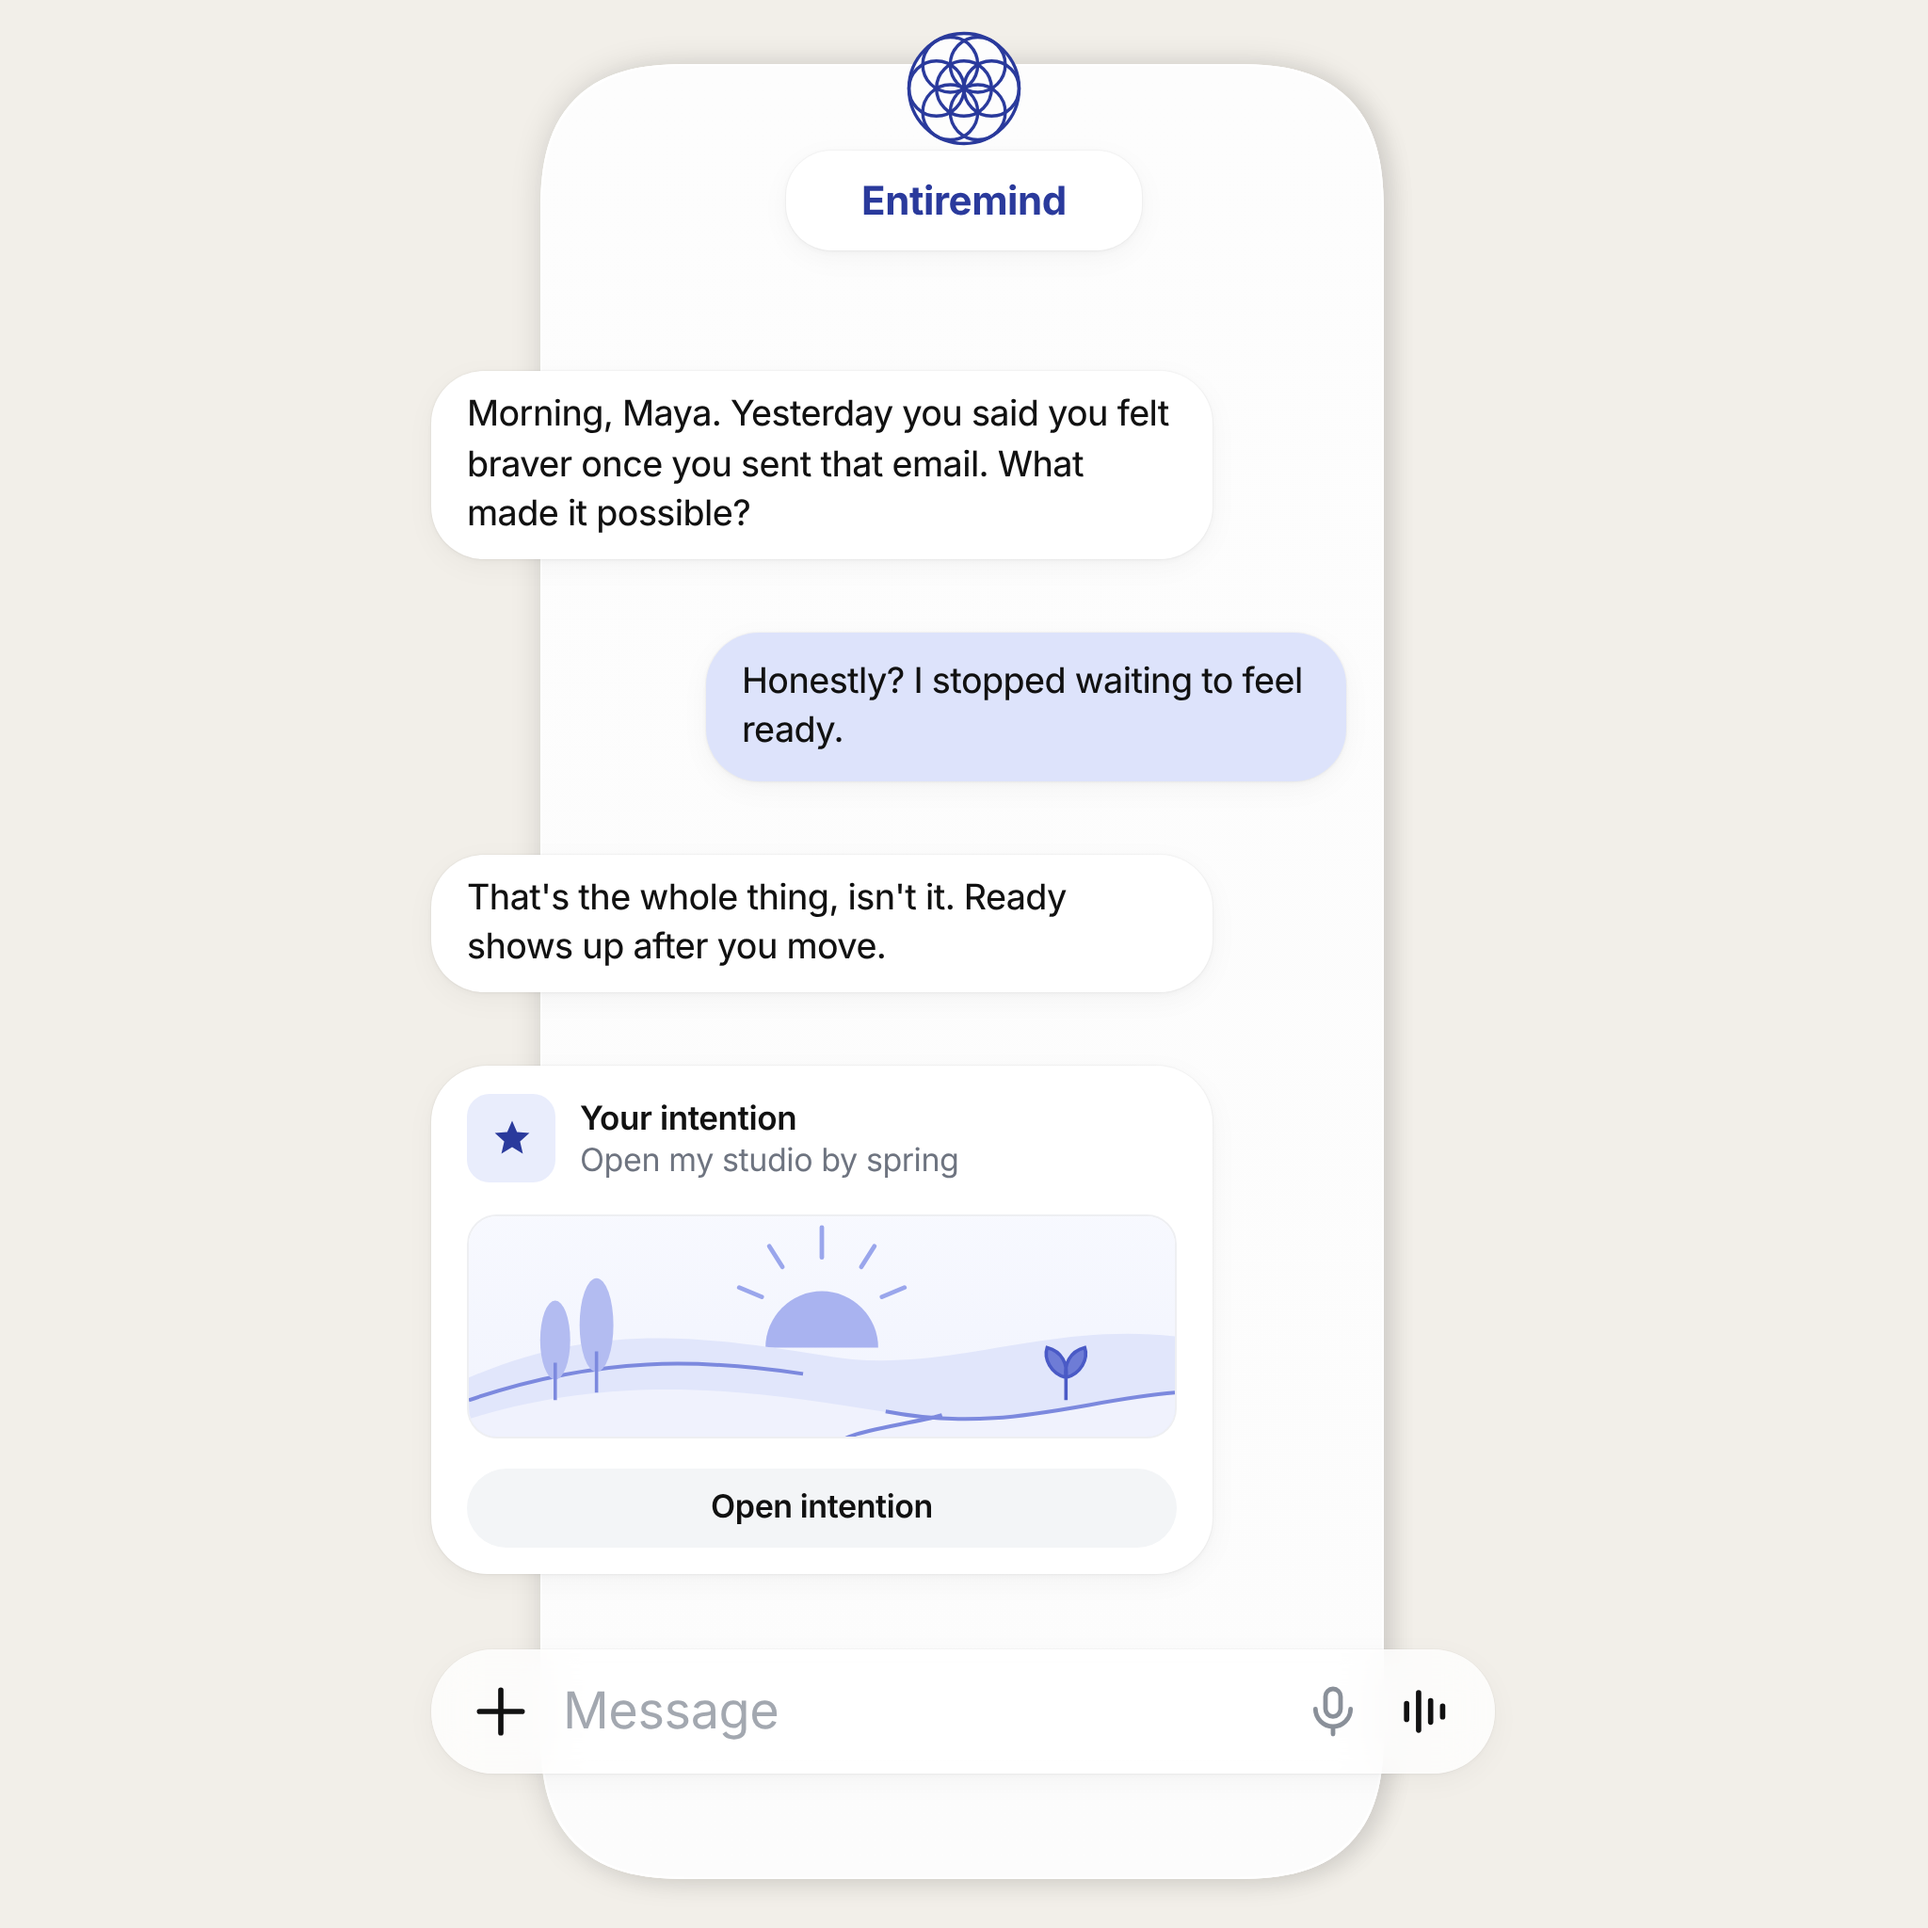
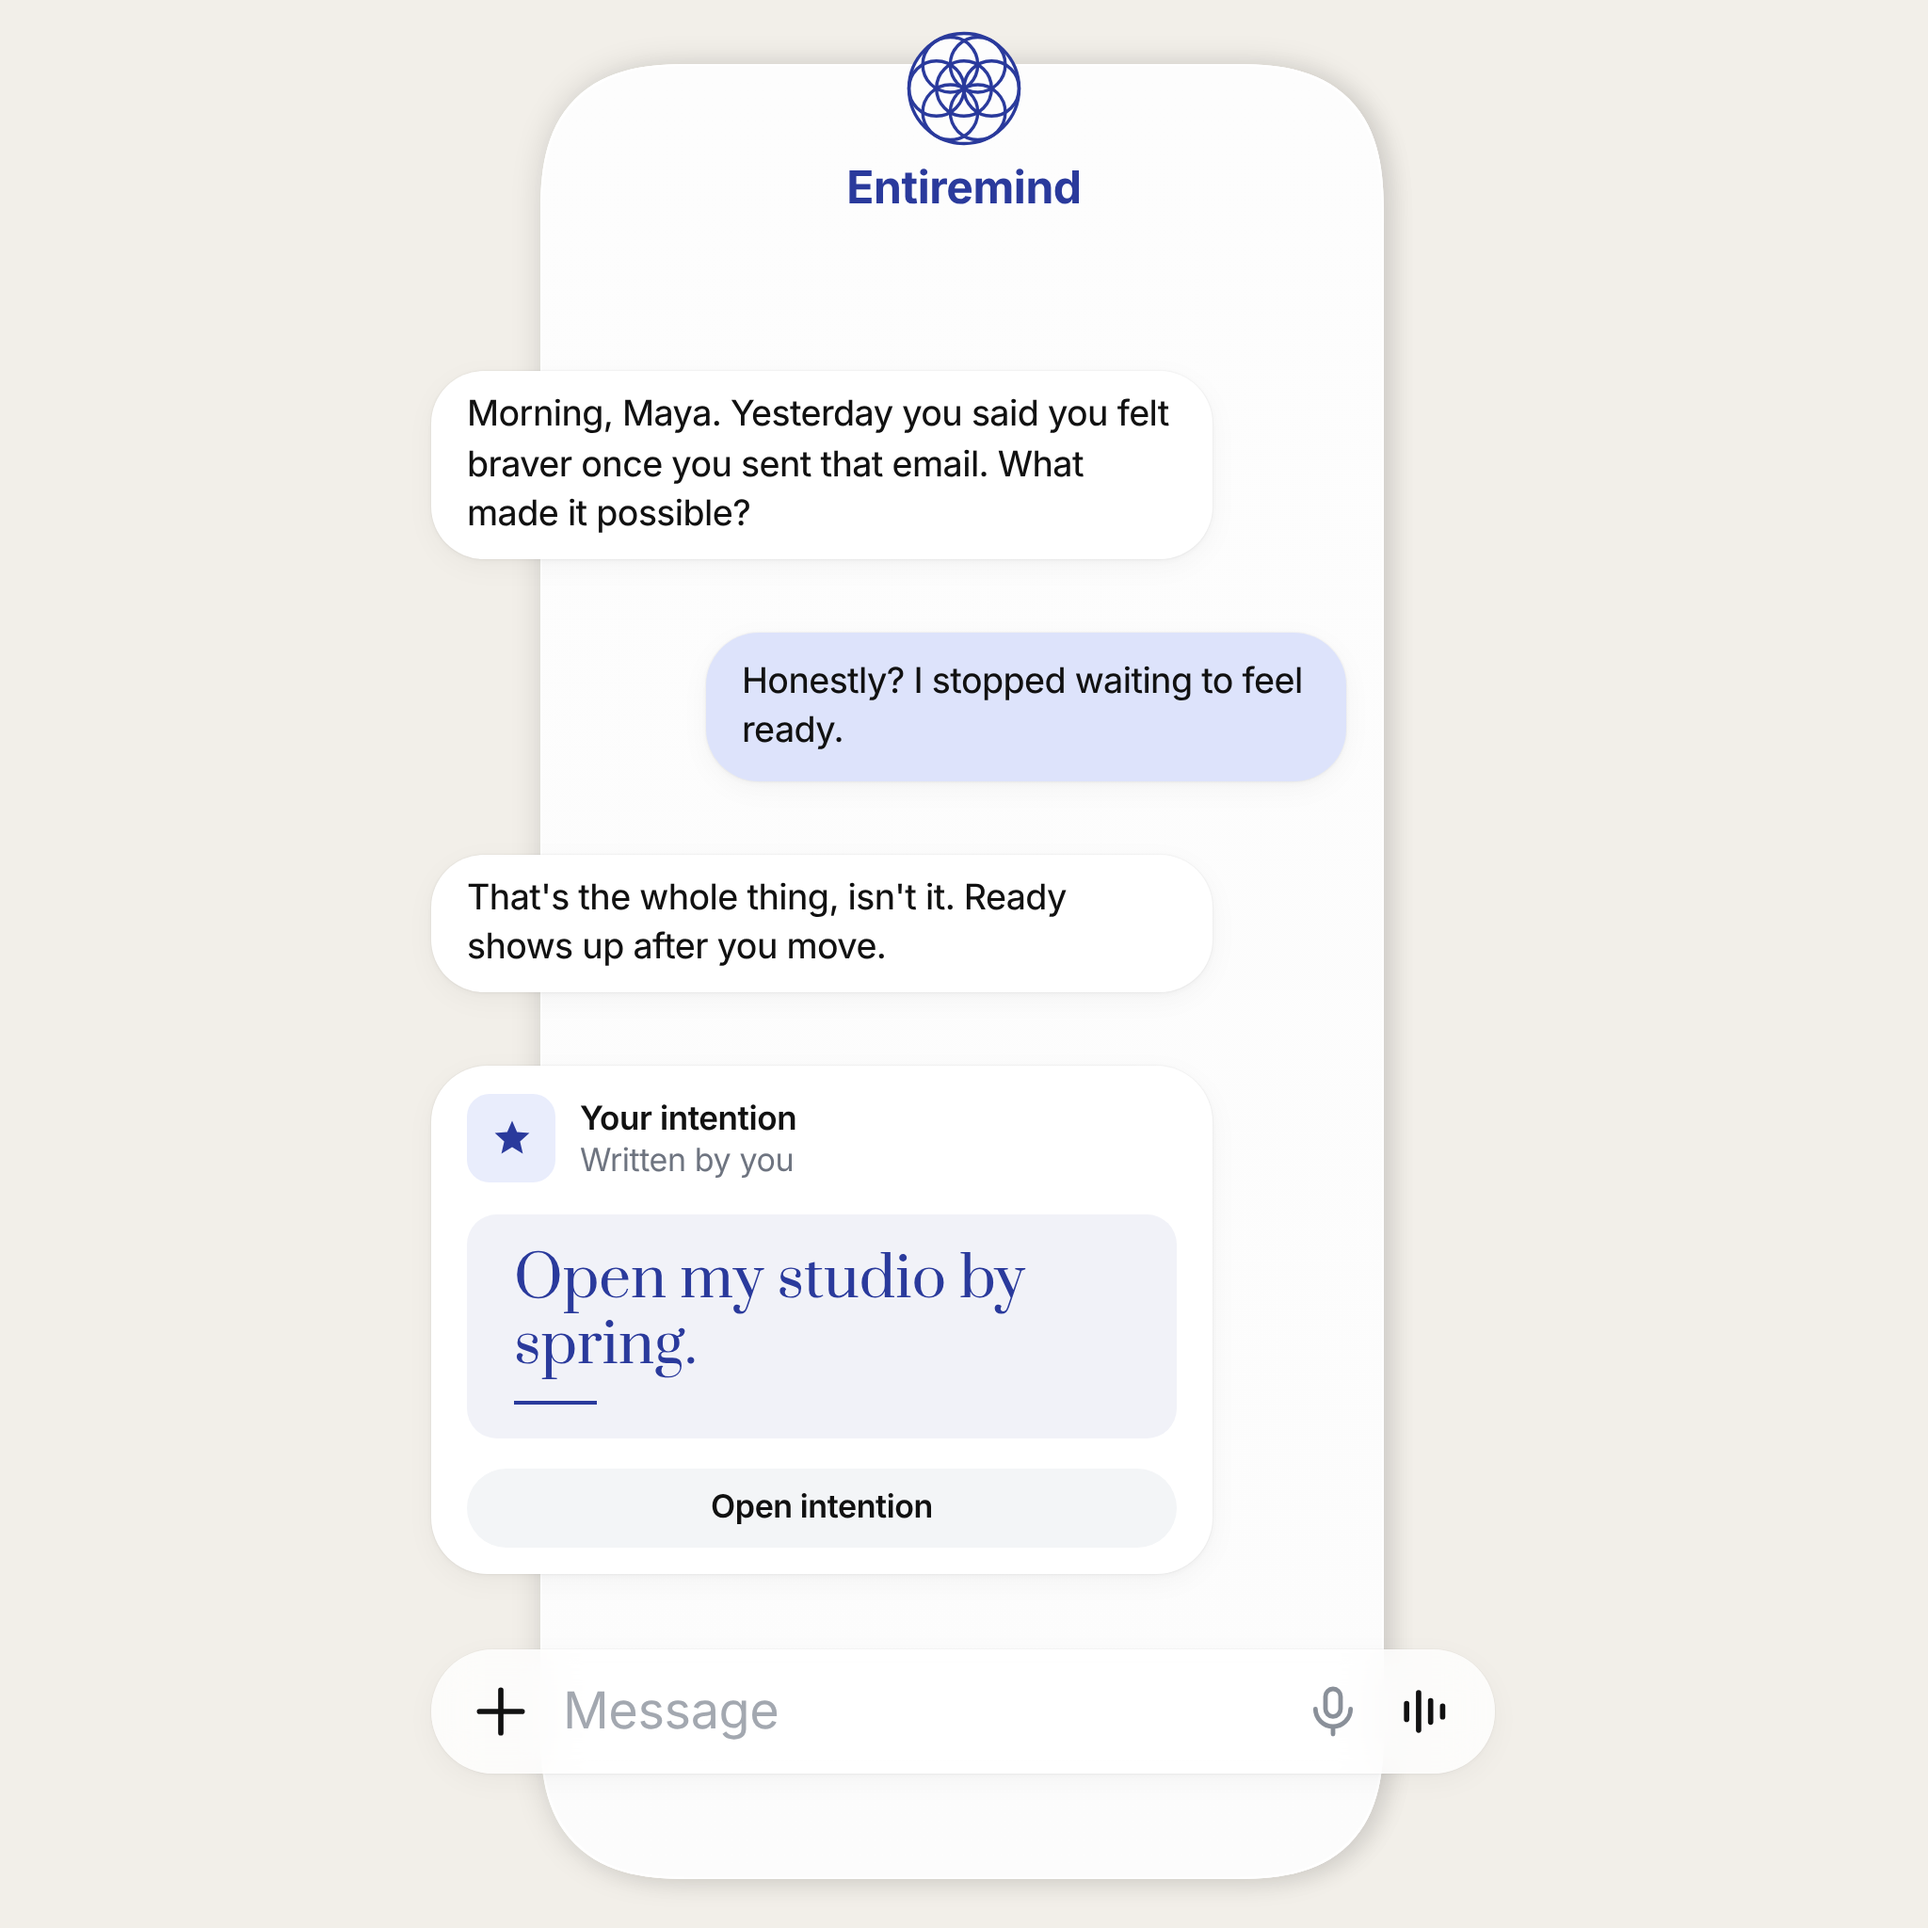
Serif intention card and pill-less cobalt name lockup
The intention card now shows the person's own words in Prata on a cobalt
wash with a cobalt rule, replacing the stock landscape (and its off-brand
periwinkle). The name drops its white pill and sits under the Seed of
Life as one cobalt lockup. Phone unchanged.

Claude-Session: https://claude.ai/code/session_01XFR3k6ZrktobPacJJyLqAi

diff --git a/src/components/landing/hero-phone-content.tsx b/src/components/landing/hero-phone-content.tsx
@@ -43,81 +43,6 @@ const GlobeIcon = (
   </svg>
 );
 
-/** Sunrise over hills — the intention card's illustration. */
-const IntentionArt = (
-  <svg
-    viewBox="0 0 376 214"
-    preserveAspectRatio="xMidYMid slice"
-    aria-hidden="true"
-  >
-    <defs>
-      <linearGradient id="hero-phone-sky" x1="0" y1="0" x2="0" y2="1">
-        <stop offset="0" stopColor="#FAFBFF" />
-        <stop offset="1" stopColor="#EEF1FD" />
-      </linearGradient>
-    </defs>
-    <rect width="376" height="214" fill="url(#hero-phone-sky)" />
-    <g stroke="#9AA6EC" strokeWidth="2.4" strokeLinecap="round">
-      <line x1="188" y1="54" x2="188" y2="70" />
-      <line x1="160" y1="64" x2="167" y2="75" />
-      <line x1="216" y1="64" x2="209" y2="75" />
-      <line x1="144" y1="86" x2="156" y2="91" />
-      <line x1="232" y1="86" x2="220" y2="91" />
-    </g>
-    <path d="M158 118a30 30 0 0 1 60 0z" fill="#A9B3F0" />
-    <path
-      d="M0 134 C70 104 124 112 188 122 C252 134 304 104 376 112 L376 214 L0 214Z"
-      fill="#E1E6FB"
-    />
-    <path
-      d="M0 156 C84 130 156 142 220 152 C284 164 326 146 376 142 L376 214 L0 214Z"
-      fill="#F0F2FD"
-    />
-    <path
-      d="M0 146 C70 122 124 124 178 132"
-      fill="none"
-      stroke="#7C89DE"
-      strokeWidth="2"
-    />
-    <path
-      d="M222 152 C284 164 326 146 376 142"
-      fill="none"
-      stroke="#7C89DE"
-      strokeWidth="2"
-    />
-    <path
-      d="M150 214 C120 190 210 182 198 172 C188 164 240 158 252 154"
-      fill="none"
-      stroke="#7C89DE"
-      strokeWidth="2"
-    />
-    <ellipse cx="46" cy="114" rx="8" ry="21" fill="#B3BCF1" />
-    <line
-      x1="46"
-      y1="126"
-      x2="46"
-      y2="146"
-      stroke="#7C89DE"
-      strokeWidth="1.8"
-    />
-    <ellipse cx="68" cy="106" rx="9" ry="25" fill="#B3BCF1" />
-    <line
-      x1="68"
-      y1="120"
-      x2="68"
-      y2="142"
-      stroke="#7C89DE"
-      strokeWidth="1.8"
-    />
-    <path
-      d="M318 146 v-18 M318 134 c-8-2-12-10-10-16 8 2 11 9 10 16 M318 134 c8-2 12-10 10-16 -8 2-11 9-10 16"
-      stroke="#4A5AC6"
-      strokeWidth="1.8"
-      fill="#6E7CD6"
-    />
-  </svg>
-);
-
 /** Neutral seat-grid stand-in, only used to calibrate against the reference. */
 const ReplicaArt = (
   <svg viewBox="0 0 376 214" aria-hidden="true">
@@ -154,9 +79,9 @@ export const ENTIREMIND_CONTENT: HeroPhoneContent = {
   ],
   card: {
     title: "Your intention",
-    subtitle: "Open my studio by spring",
+    subtitle: "Written by you",
     icon: StarIcon,
-    body: IntentionArt,
+    quote: "Open my studio by spring.",
     action: "Open intention",
   },
 };

diff --git a/src/components/landing/hero-phone.module.css b/src/components/landing/hero-phone.module.css
@@ -106,14 +106,19 @@
 
 /* ---- Header pill ---------------------------------------------------- */
 
-/* With a mark, the pill tucks just under it (as the reference's pill does
-   under its avatar) and the name takes the brand cobalt. */
+/* With a mark, the name drops its pill and sits bare under the mark in
+   cobalt — mark and name read together as one lockup. */
 .pill.pillWithMark {
-  top: calc(var(--u) * 80);
+  top: calc(var(--u) * 86);
+  padding-top: 0;
+  padding-bottom: 0;
+  background: none;
+  box-shadow: none;
 }
 
 .pillWithMark .pillName {
   color: var(--tile-ink);
+  font-size: calc(var(--u) * 24);
 }
 
 .pill {
@@ -258,6 +263,35 @@
   display: block;
   width: 100%;
   height: 100%;
+}
+
+/* The intention in the person's own words, in the brand serif. */
+.cardQuote {
+  display: flex;
+  flex-direction: column;
+  justify-content: center;
+  padding: calc(var(--u) * 14) calc(var(--u) * 24);
+  border-color: transparent;
+  background: color-mix(in srgb, var(--color-cobalt-wash) 60%, white);
+}
+
+.quoteText {
+  margin: 0;
+  font-family: var(--font-prata), Georgia, serif;
+  font-weight: 400;
+  font-size: calc(var(--u) * 30);
+  line-height: 1.15;
+  letter-spacing: 0;
+  color: var(--tile-ink);
+}
+
+.quoteRule {
+  display: block;
+  flex: none;
+  margin-top: calc(var(--u) * 12);
+  width: calc(var(--u) * 44);
+  height: calc(var(--u) * 1.5);
+  background: var(--tile-ink);
 }
 
 .cardButton {

diff --git a/src/components/landing/hero-phone.tsx b/src/components/landing/hero-phone.tsx
@@ -23,7 +23,10 @@ export interface HeroPhoneCard {
   title: string;
   subtitle: string;
   icon: ReactNode;
-  body: ReactNode;
+  /** Either an illustration… */
+  body?: ReactNode;
+  /** …or the person's own words, set in the brand serif. */
+  quote?: string;
   action: string;
 }
 
@@ -106,7 +109,14 @@ export function HeroPhone({
                 <div className={styles.cardSub}>{content.card.subtitle}</div>
               </div>
             </div>
-            <div className={styles.cardBody}>{content.card.body}</div>
+            {content.card.quote ? (
+              <div className={`${styles.cardBody} ${styles.cardQuote}`}>
+                <p className={styles.quoteText}>{content.card.quote}</p>
+                <span className={styles.quoteRule} aria-hidden="true" />
+              </div>
+            ) : (
+              <div className={styles.cardBody}>{content.card.body}</div>
+            )}
             <div className={styles.cardButton}>{content.card.action}</div>
           </div>
         </div>
